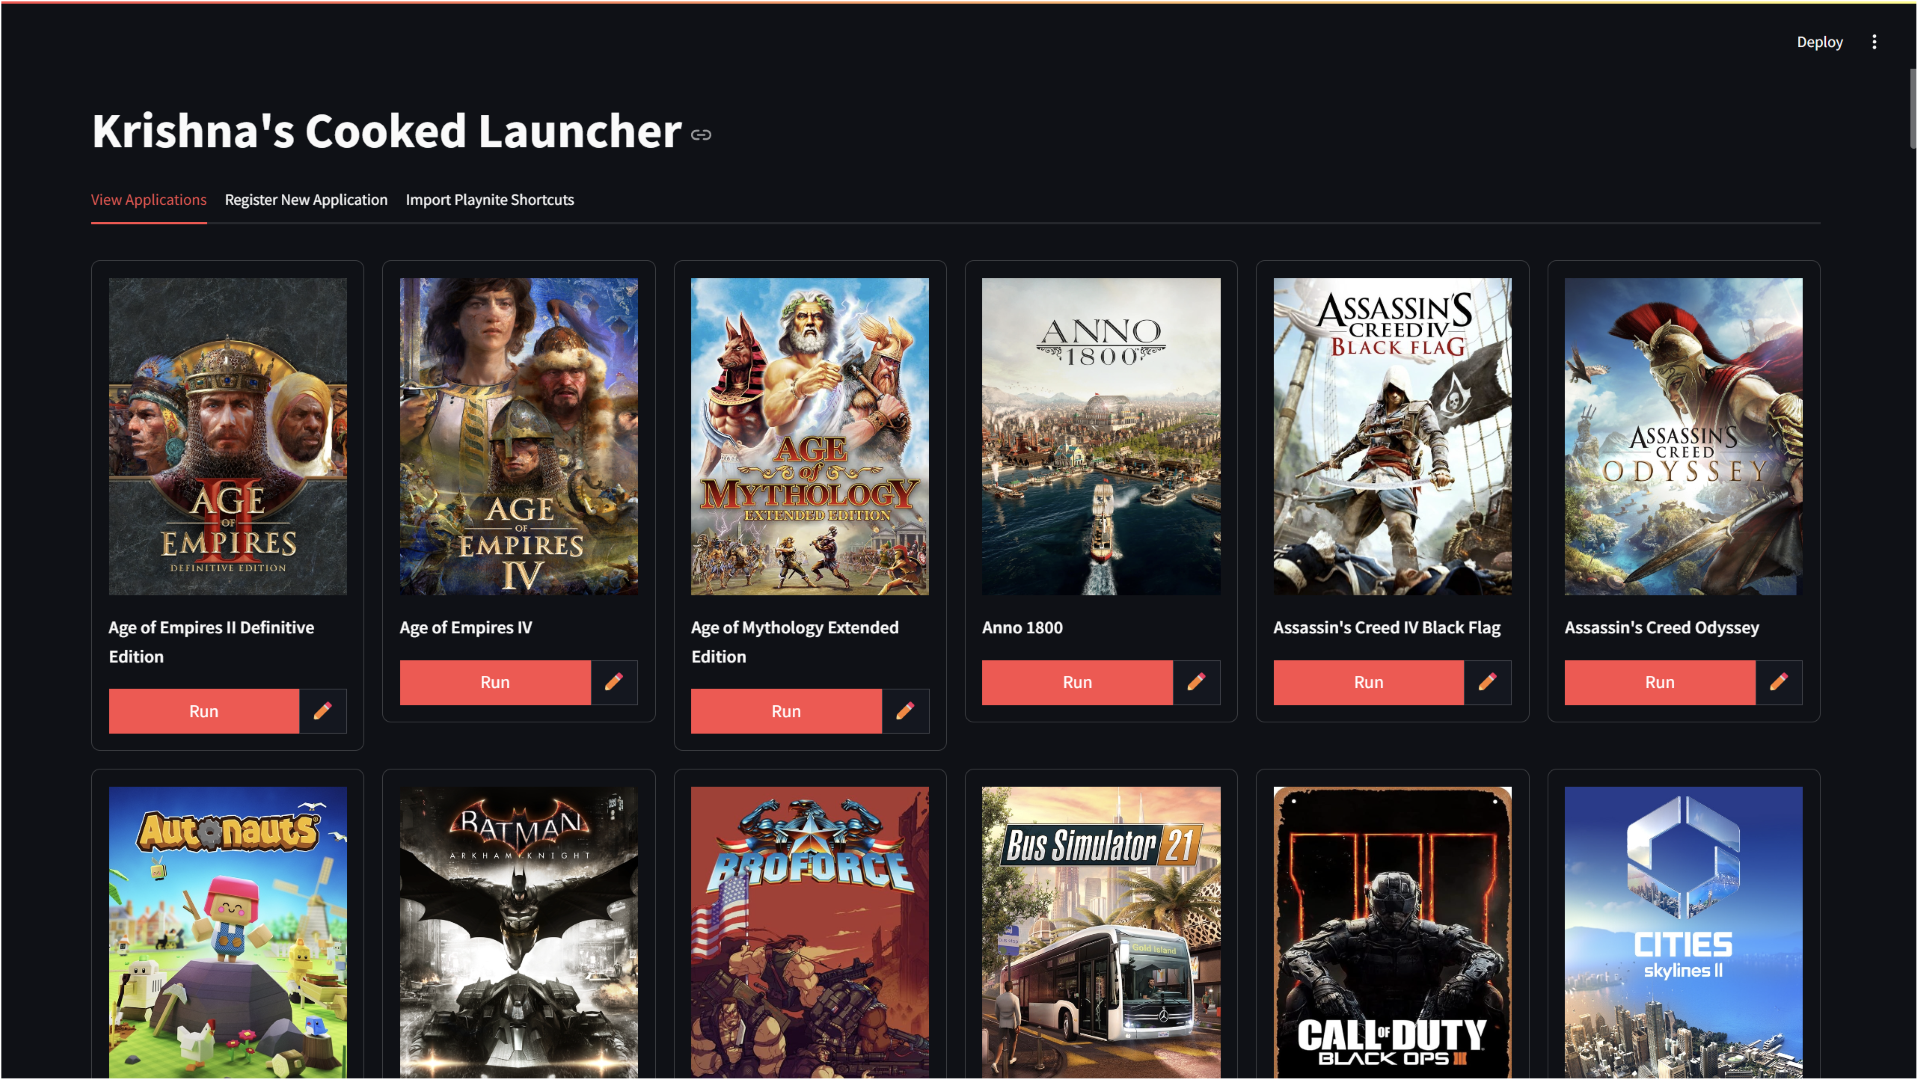
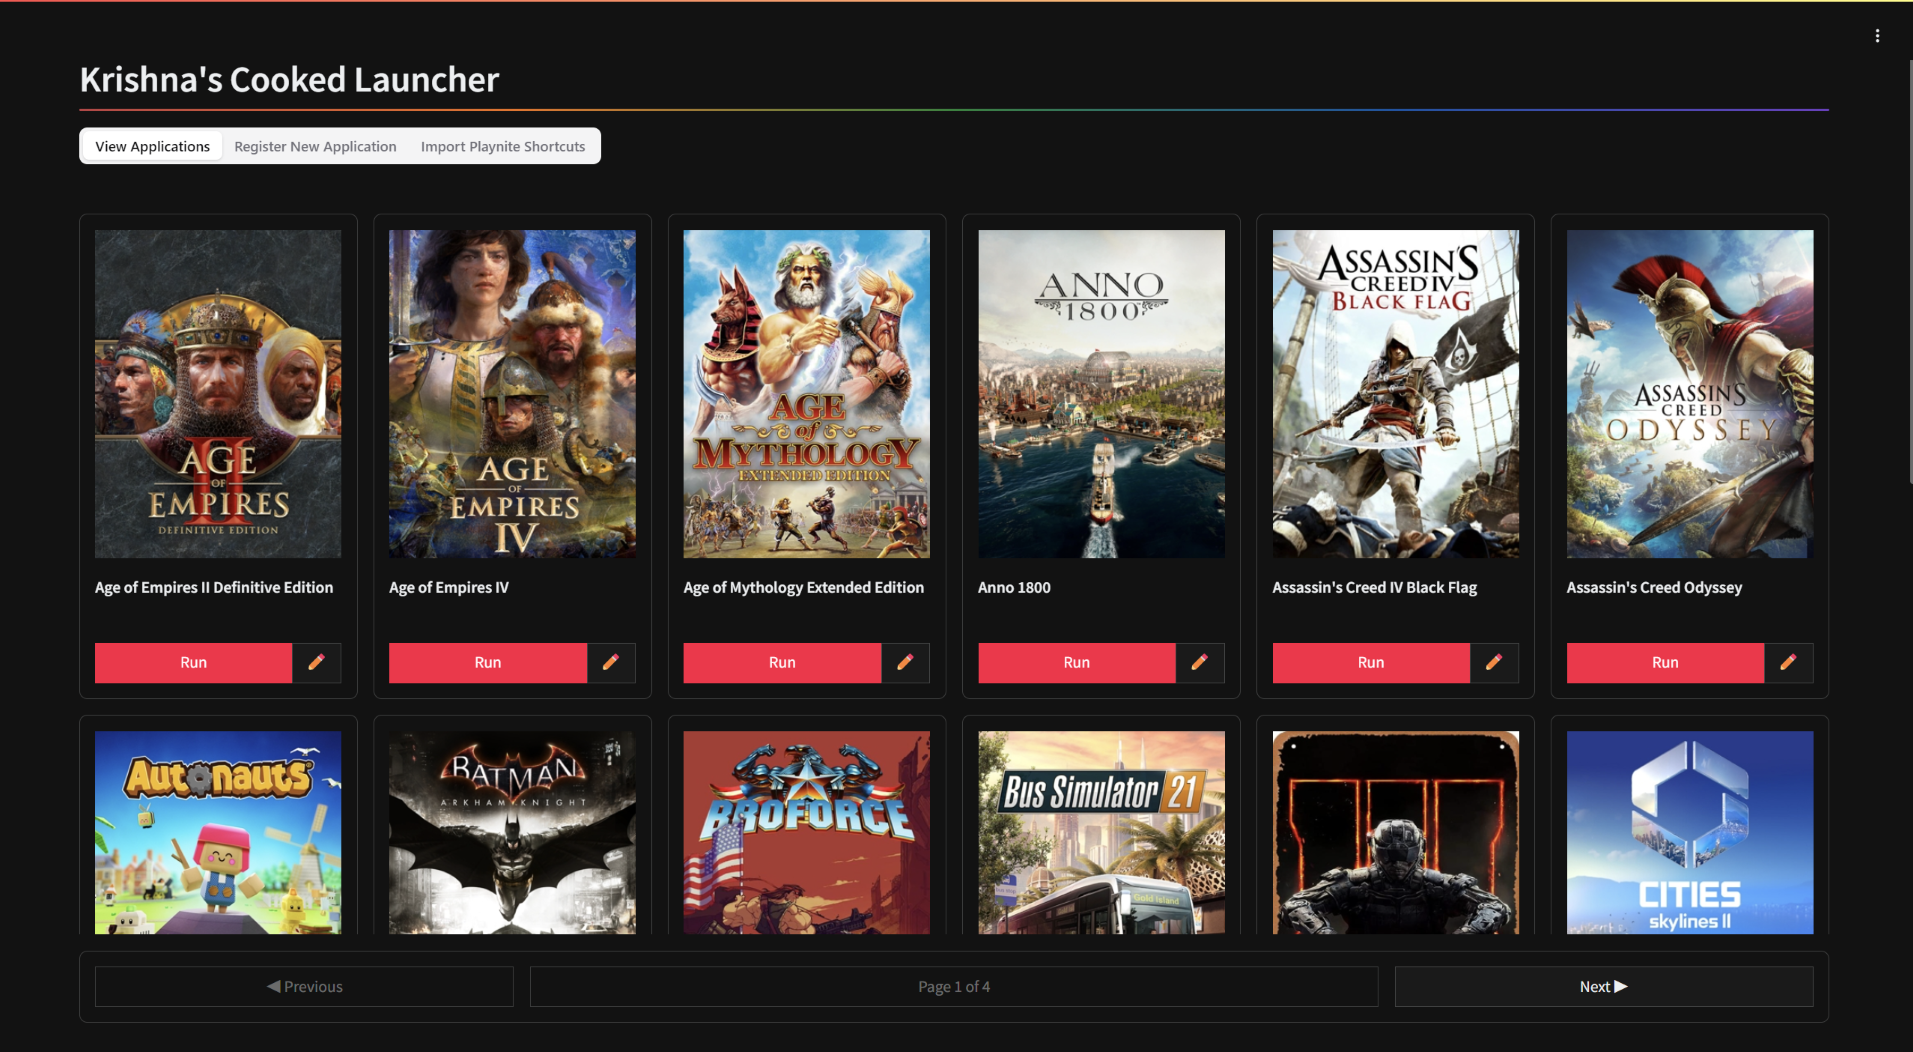
👌🎨 IMPROVE: Pagination and modified theme
Also, updated `screenshot.png`

diff --git a/launcher.py b/launcher.py
@@ -1,16 +1,24 @@
 #!/usr/bin/env python3
-from typing import Optional
-import configparser
 import glob
 import os
+import math
 
 from streamlit_extras.stylable_container import stylable_container
+from streamlit_extras.colored_header import colored_header
+from streamlit_extras.bottom_container import bottom
 from bson.objectid import ObjectId
+import streamlit_shadcn_ui as ui
 import streamlit as st
 from PIL import Image
 import pymongo
 
 import constants
+from utils import (
+    parse_url_file,
+    find_image_for_uuid,
+    execute_command,
+    display_pagination_controls,
+)
 
 
 st.set_page_config(
@@ -61,56 +69,6 @@ def edit_application_by_id(app_id: str):
         # Perform the update in MongoDB
         apps_collection.update_one({"_id": app_object_id}, {"$set": updated_app})
         st.toast(f"Application '{title}' has been updated successfully!")
-
-
-def parse_url_file(file_path: str) -> tuple:
-    """Function to parse the .url files and extract necessary details
-    Args:
-        file_path (str): The path to the .url file
-    Returns:
-        tuple: (icon_file, url)
-    """
-    config = configparser.ConfigParser()
-    config.read(file_path)
-
-    # Extract IconFile and URL from the .url file
-    icon_file = config.get("InternetShortcut", "IconFile", fallback=None)
-    url = config.get("InternetShortcut", "URL", fallback=None)
-
-    return icon_file, url
-
-
-def find_image_for_uuid(uuid: str) -> Optional[str]:
-    """Function to find suitable image from the UUID folder
-    Args:
-        uuid (str): The UUID to search for
-    Returns:
-        Optional[str]: The path to the suitable image or None
-    """
-
-    image_dir = os.path.join(constants.PLAYNITE_IMAGE_DIR, uuid)
-
-    # Supported image formats
-    extensions = ["jpg", "jpeg", "png", "webp"]
-
-    # Get all images in the folder
-    images = []
-    for ext in extensions:
-        images.extend(glob.glob(os.path.join(image_dir, f"*.{ext}")))
-
-    # Check image dimensions and select the appropriate one
-    for image_path in images:
-        try:
-            with Image.open(image_path) as img:
-                width, height = img.size
-                # Non-square (e.g. not 256x256) and landscape images above 1000px
-                if height > width and width < 1000 and height < 1000:
-                    return image_path
-        except Exception as e:
-            st.warning(f"Error reading image {image_path}: {e}")
-
-    # No suitable image found
-    return None
 
 
 def scan_and_import_playnite_shortcuts() -> None:
@@ -168,7 +126,6 @@ def scan_and_import_playnite_shortcuts() -> None:
     st.success("Scan complete! All Playnite shortcuts have been imported.")
 
 
-@st.fragment
 def playnite_import_page() -> None:
     """Page for scanning and importing Playnite shortcuts"""
     with st.container(border=True):
@@ -183,24 +140,7 @@ def playnite_import_page() -> None:
             scan_and_import_playnite_shortcuts()
 
 
-def execute_command(command: str, cwd: str) -> None:
-    """Function to execute a command in the given directory"""
-    try:
-        to_run = ""
-        if cwd:
-            to_run += f"cd {cwd} &&"
-        elif command:
-            to_run += f"{command}"
-
-        to_run = to_run.strip()
-        os.system(to_run)
-        st.toast(f"Executed: `{command}`", icon="✅")
-
-    except Exception as e:
-        st.toast(f"Error executing command: `{str(e)}`", icon="❌")
-
-
-def display_applications() -> None:
+def display_applications(column_size: int = 6, row_size: int = 4) -> None:
     """Function to display registered applications in a card layout"""
     # Hide the default Streamlit image fullscreen button
     hide_img_fs = """
@@ -209,26 +149,36 @@ def display_applications() -> None:
         visibility: hidden;}
     </style>
     """
-
+    page_limit = column_size * row_size
+    start_page = int(st.query_params.get("page", 1))
     st.markdown(hide_img_fs, unsafe_allow_html=True)
-    apps = list(apps_collection.find())  # Fetch all applications
+
+    apps = list(apps_collection.find())
+    total_apps = len(apps)
+    sdx = (start_page - 1) * page_limit
+    edx = start_page * page_limit
+    apps = apps[sdx:edx]
 
     if not apps:
         st.warning("No applications are registered yet.")
         return
 
     # Define how many cards per row
-    column_size = 6
     for i in range(0, len(apps), column_size):
         cols = st.columns(column_size)
         for j in range(column_size):
             if i + j < len(apps):
                 app = apps[i + j]
                 with cols[j]:
-                    display_card(app, element_key=i+j)
+                    display_card(app, element_key=i + j)
+
+    # Pagination logic
+    if total_apps > 0:
+        total_pages = math.ceil(total_apps / page_limit)
+        with bottom():
+            display_pagination_controls(start_page, total_pages)
 
 
-@st.fragment
 def display_card(app: dict, element_key: int) -> None:
     with st.container(border=True):
         card_image_path = app.get("picture", None)
@@ -241,9 +191,12 @@ def display_card(app: dict, element_key: int) -> None:
 
         st.image(card_image, use_column_width=True)
 
-        card_title = app.get("title", "")
+        card_title = app.get("title", "").ljust(48, "\u200B")
+        card_title = card_title.replace(
+            "\u200B", "<span style='color: transparent;'>-</span>"
+        )
         card_subtitle = app.get("subtitle", "")
-        st.markdown(f"**{card_title}**")
+        st.markdown(f"<strong>{card_title}</strong>", unsafe_allow_html=True)
 
         helper_text = (
             f"- **Platform:** {card_subtitle}\n"
@@ -281,7 +234,6 @@ def display_card(app: dict, element_key: int) -> None:
                     edit_application_by_id(str(app["_id"]))
 
 
-@st.fragment
 def add_application() -> None:
     """Function to add a new application to the database"""
     with st.form("new_app_form"):
@@ -307,36 +259,37 @@ def add_application() -> None:
             st.success("Application registered successfully!")
 
 
-@st.fragment
 def footer() -> None:
     st.divider()
-    st.caption(
+    footer_col = st.columns([3, 1])
+    footer_col[0].caption(
+        "Made with ❤ by [Krishnakanth Alagiri](https://github.com/bearlike)."
+    )
+    footer_col[1].caption(
         "Issues or suggestions? [Open an issue](https://github.com/bearlike/playnite-remote/issues)."
     )
-    st.caption("Made with ❤ by [Krishnakanth Alagiri](https://github.com/bearlike).")
 
 
 def driver() -> None:
-    st.title("Krishna's Cooked Launcher")
-
-    tab1, tab2, tab3 = st.tabs(
-        ["View Applications", "Register New Application", "Import Playnite Shortcuts"]
+    st.header("Krishna's Cooked Launcher", divider="rainbow", anchor=False)
+    selected_tab = ui.tabs(
+        options=[
+            "View Applications",
+            "Register New Application",
+            "Import Playnite Shortcuts",
+        ],
+        default_value="View Applications",
+        key="main_tabs",
     )
 
     # Page logic
-    with tab1:
-        # st.write('''<style>
-
-        # [data-testid="column"] {
-        #     width: calc(33.3333% - 1rem) !important;
-        #     flex: 1 1 calc(33.3333% - 1rem) !important;
-        #     min-width: calc(33% - 1rem) !important;
-        # }
-        # </style>''', unsafe_allow_html=True)
+    if selected_tab == "View Applications":
         display_applications()
-    with tab2:
+
+    elif selected_tab == "Register New Application":
         add_application()
-    with tab3:
+
+    elif selected_tab == "Import Playnite Shortcuts":
         playnite_import_page()
 
     footer()

diff --git a/utils.py b/utils.py
@@ -1,0 +1,116 @@
+#!/usr/bin/env python3
+import os
+from typing import Optional
+import glob
+from PIL import Image
+import streamlit as st
+import configparser
+import constants
+
+
+def parse_url_file(file_path: str) -> tuple:
+    """Function to parse the .url files and extract necessary details
+    Args:
+        file_path (str): The path to the .url file
+    Returns:
+        tuple: (icon_file, url)
+    """
+    config = configparser.ConfigParser()
+    config.read(file_path)
+
+    # Extract IconFile and URL from the .url file
+    icon_file = config.get("InternetShortcut", "IconFile", fallback=None)
+    url = config.get("InternetShortcut", "URL", fallback=None)
+
+    return icon_file, url
+
+
+def find_image_for_uuid(uuid: str) -> Optional[str]:
+    """Function to find suitable image from the UUID folder
+    Args:
+        uuid (str): The UUID to search for
+    Returns:
+        Optional[str]: The path to the suitable image or None
+    """
+
+    image_dir = os.path.join(constants.PLAYNITE_IMAGE_DIR, uuid)
+
+    # Supported image formats
+    extensions = ["jpg", "jpeg", "png", "webp"]
+
+    # Get all images in the folder
+    images = []
+    for ext in extensions:
+        images.extend(glob.glob(os.path.join(image_dir, f"*.{ext}")))
+
+    # Check image dimensions and select the appropriate one
+    for image_path in images:
+        try:
+            with Image.open(image_path) as img:
+                width, height = img.size
+                # Non-square (e.g. not 256x256) and landscape images above 1000px
+                if height > width and width < 1000 and height < 1000:
+                    return image_path
+        except Exception as e:
+            st.warning(f"Error reading image {image_path}: {e}")
+
+    # No suitable image found
+    return None
+
+
+def execute_command(command: str, cwd: str) -> None:
+    """Function to execute a command in the given directory"""
+    try:
+        to_run = ""
+        if cwd:
+            to_run += f"cd {cwd} &&"
+        elif command:
+            to_run += f"{command}"
+
+        to_run = to_run.strip()
+        os.system(to_run)
+        st.toast(f"Executed: `{command}`", icon="✅")
+
+    except Exception as e:
+        st.toast(f"Error executing command: `{str(e)}`", icon="❌")
+
+
+def display_pagination_controls(page_number, total_pages):
+    """
+    Display pagination controls and update the query parameters based on user input.
+
+    Args:
+        page_number (int): Current page number.
+        total_pages (int): Total number of pages.
+    """
+    page_btn_container = st.container(border=True)
+    with page_btn_container:
+        prev_disabled = page_number <= 1
+        next_disabled = page_number >= total_pages
+
+        prev_col, page_col, next_col = st.columns([1, 2, 1])
+
+        with prev_col:
+            st.button(
+                ":arrow_backward: Previous",
+                disabled=prev_disabled,
+                on_click=lambda: st.query_params.update({"page": page_number - 1}),
+                use_container_width=True,
+                key="prev_button",
+            )
+
+        with page_col:
+            st.button(
+                f"Page {page_number} of {total_pages}",
+                use_container_width=True,
+                disabled=True,
+            )
+
+        with next_col:
+            st.button(
+                "Next :arrow_forward:",
+                disabled=next_disabled,
+                on_click=lambda: st.query_params.update({"page": page_number + 1}),
+                use_container_width=True,
+                key="next_button",
+            )
